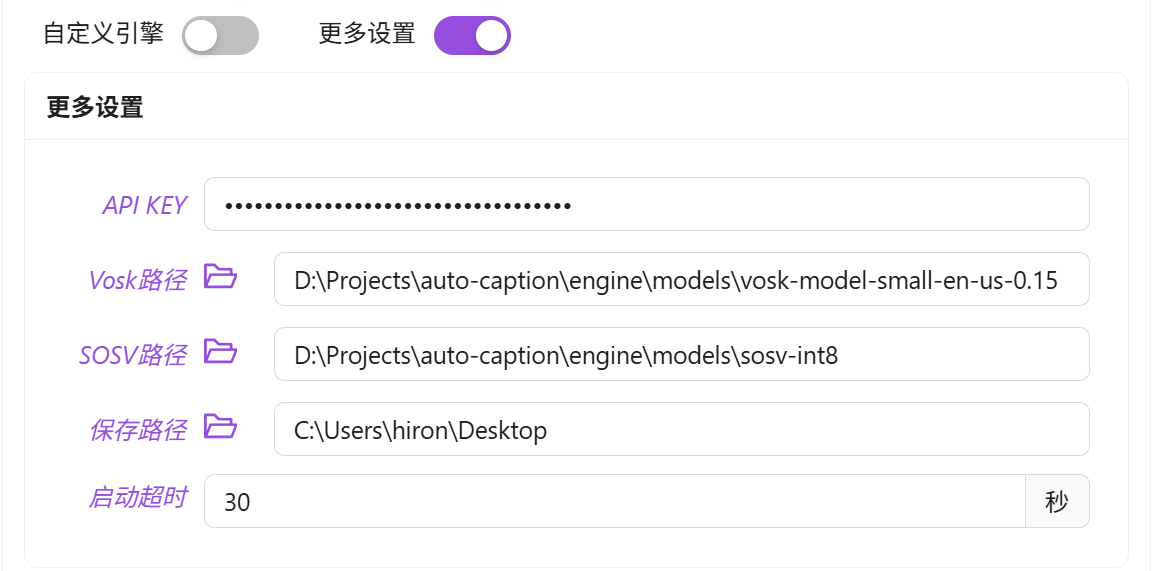
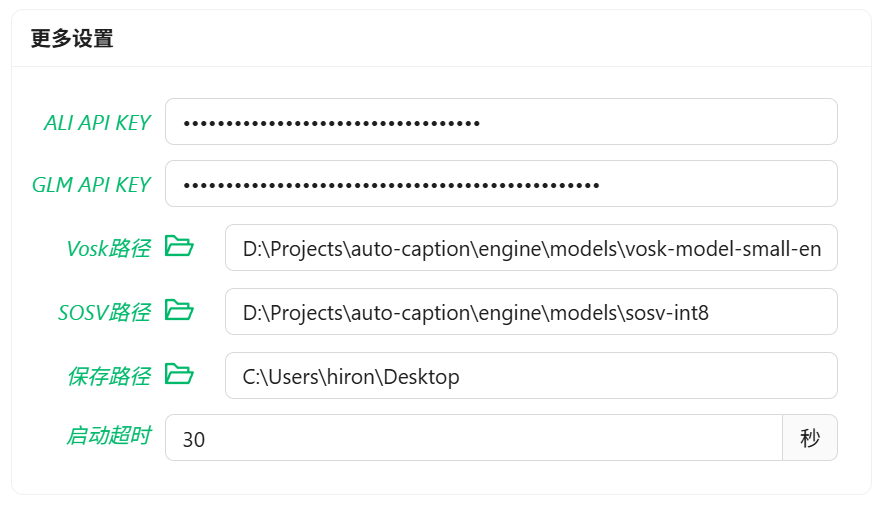
release v1.1.0

diff --git a/engine/main.py b/engine/main.py
@@ -185,7 +185,7 @@ def main_glm(a: int, c: int, url: str, model: str, key: str, s: str, t: str, tm:
 if __name__ == "__main__":
     parser = argparse.ArgumentParser(description='Convert system audio stream to text')
     # all
-    parser.add_argument('-e', '--caption_engine', default='gummy', help='Caption engine: gummy or vosk or sosv')
+    parser.add_argument('-e', '--caption_engine', default='gummy', help='Caption engine: gummy, glm, vosk or sosv')
     parser.add_argument('-a', '--audio_type', type=int, default=0, help='Audio stream source: 0 for output, 1 for input')
     parser.add_argument('-c', '--chunk_rate', type=int, default=10, help='Number of audio stream chunks collected per second')
     parser.add_argument('-p', '--port', type=int, default=0, help='The port to run the server on, 0 for no server')
@@ -193,7 +193,7 @@ if __name__ == "__main__":
     parser.add_argument('-t', '--target_language', default='none', help='Target language code, "none" for no translation')
     parser.add_argument('-r', '--record', type=int, default=0, help='Whether to record the audio, 0 for no recording, 1 for recording')
     parser.add_argument('-rp', '--record_path', default='', help='Path to save the recorded audio')
-    # gummy and sosv
+    # gummy and sosv and glm
     parser.add_argument('-s', '--source_language', default='auto', help='Source language code')
     # gummy only
     parser.add_argument('-k', '--api_key', default='', help='API KEY for Gummy model')

diff --git a/README_en.md b/README_en.md
@@ -3,7 +3,7 @@
     <h1 align="center">auto-caption</h1>
     <p>Auto Caption is a cross-platform real-time caption display software.</p>
     <p>
-      <a href="https://github.com/HiMeditator/auto-caption/releases"><img src="https://img.shields.io/badge/release-1.0.0-blue"></a>
+      <a href="https://github.com/HiMeditator/auto-caption/releases"><img src="https://img.shields.io/badge/release-1.1.0-blue"></a>
       <a href="https://github.com/HiMeditator/auto-caption/issues"><img src="https://img.shields.io/github/issues/HiMeditator/auto-caption?color=orange"></a>
       <img src="https://img.shields.io/github/languages/top/HiMeditator/auto-caption?color=royalblue">
       <img src="https://img.shields.io/github/repo-size/HiMeditator/auto-caption?color=green">
@@ -14,7 +14,7 @@
         | <b>English</b>
         | <a href="./README_ja.md">日本語</a> |
     </p>
-    <p><i>Version 1.0.0 has been released, with the addition of the SOSV local caption model. The current features are basically complete, and there are no further development plans...</i></p>
+    <p><i>v1.1.0 has been released, adding the GLM-ASR cloud caption model and OpenAI compatible model translation...</i></p>
 </div>
 
 ![](./assets/media/main_en.png)
@@ -38,14 +38,16 @@ SOSV Model Download: [Shepra-ONNX SenseVoice Model](https://github.com/HiMeditat
 ## ✨ Features
 
 - Generate captions from audio output or microphone input
-- Supports translation by calling local Ollama models or cloud-based Google Translate API
+- Supports calling local Ollama models, cloud-based OpenAI compatible models, or cloud-based Google Translate API for translation
 - Cross-platform (Windows, macOS, Linux) and multi-language interface (Chinese, English, Japanese) support
 - Rich caption style settings (font, font size, font weight, font color, background color, etc.)
-- Flexible caption engine selection (Alibaba Cloud Gummy cloud model, local Vosk model, local SOSV model, or you can develop your own model)
+- Flexible caption engine selection (Aliyun Gummy cloud model,GLM-ASR cloud model, local Vosk model, local SOSV model, or you can develop your own model)
 - Multi-language recognition and translation (see below "⚙ Built-in Subtitle Engines")
 - Subtitle record display and export (supports exporting `.srt` and `.json` formats)
 
 ## 📖 Basic Usage
+
+> ⚠ Note: Currently, only the latest version of the software on Windows platform is maintained, while the last versions for other platforms remain at v1.0.0.
 
 The software has been adapted for Windows, macOS, and Linux platforms. The tested platform information is as follows:
 
@@ -60,14 +62,15 @@ Additional configuration is required to capture system audio output on macOS and
 
 After downloading the software, you need to select the corresponding model according to your needs and then configure the model.
 
-|                                                              | Recognition Quality | Deployment Type    | Supported Languages | Translation   | Notes                                                      |
-| ------------------------------------------------------------ | ------------------- | ------------------ | ------------------- | ------------- | ---------------------------------------------------------- |
-| [Gummy](https://help.aliyun.com/zh/model-studio/gummy-speech-recognition-translation) | Excellent 😊         | Alibaba Cloud | 10 languages        | Built-in      | Paid, 0.54 CNY/hour                                        |
-| [Vosk](https://alphacephei.com/vosk)                         | Poor 😞             | Local / CPU        | Over 30 languages   | Requires setup | Supports many languages                                    |
-| [SOSV](https://k2-fsa.github.io/sherpa/onnx/sense-voice/index.html) | Fair 😐             | Local / CPU        | 5 languages         | Requires setup | Only one model available                                   |
-| DIY Development                                              | 🤔                  | Custom             | Custom              | Custom        | Develop your own using Python according to [documentation](./docs/engine-manual/zh.md) |
+|                                                              | Accuracy | Real-time | Deployment Type | Supported Languages | Translation | Notes |
+| ------------------------------------------------------------ | -------- | --------- | --------------- | ------------------- | ----------- | ----- |
+| [Gummy](https://help.aliyun.com/zh/model-studio/gummy-speech-recognition-translation) | Very good 😊 | Very good 😊 | Cloud / Alibaba Cloud | 10 languages | Built-in translation | Paid, 0.54 CNY/hour |
+| [glm-asr-2512](https://docs.bigmodel.cn/cn/guide/models/sound-and-video/glm-asr-2512) | Very good 😊 | Poor 😞 | Cloud / Zhipu AI | 4 languages | Requires additional configuration | Paid, approximately 0.72 CNY/hour |
+| [Vosk](https://alphacephei.com/vosk) | Poor 😞 | Very good 😊 | Local / CPU | Over 30 languages | Requires additional configuration | Supports many languages |
+| [SOSV](https://k2-fsa.github.io/sherpa/onnx/sense-voice/index.html) | Average 😐 | Average 😐 | Local / CPU | 5 languages | Requires additional configuration | Only one model |
+| Self-developed | 🤔 | 🤔 | Custom | Custom | Custom | Develop your own using Python according to the [documentation](./docs/engine-manual/en.md) |
 
-If you choose to use the Vosk or SOSV model, you also need to configure your own translation model.
+If you choose a model other than Gummy, you also need to configure your own translation model.
 
 ### Configuring Translation Models
 
@@ -79,7 +82,18 @@ If you choose to use the Vosk or SOSV model, you also need to configure your own
 
 > Note: Using models with too many parameters will lead to high resource consumption and translation delays. It is recommended to use models with less than 1B parameters, such as: `qwen2.5:0.5b`, `qwen3:0.6b`.
 
-Before using this model, you need to ensure that [Ollama](https://ollama.com/) software is installed on your machine and the required large language model has been downloaded. Simply add the name of the large model you want to call to the `Ollama` field in the settings.
+Before using this model, you need to confirm that the [Ollama](https://ollama.com/) software is installed on your local machine and that you have downloaded the required large language model. Simply add the name of the large model you want to call to the `Model Name` field in the settings, and ensure that the `Base URL` field is empty.
+
+#### OpenAI Compatible Model
+
+If you feel the translation effect of the local Ollama model is not good enough, or don't want to install the Ollama model locally, then you can use cloud-based OpenAI compatible models.
+
+Here are some model provider `Base URL`s:
+- OpenAI: https://api.openai.com/v1
+- DeepSeek: https://api.deepseek.com
+- Alibaba Cloud: https://dashscope.aliyuncs.com/compatible-mode/v1
+
+The API Key needs to be obtained from the corresponding model provider.
 
 #### Google Translate API
 
@@ -95,6 +109,12 @@ To use the default Gummy caption engine (using cloud models for speech recogniti
 
 - [Get API KEY](https://help.aliyun.com/zh/model-studio/get-api-key)
 - [Configure API Key through Environment Variables](https://help.aliyun.com/zh/model-studio/configure-api-key-through-environment-variables)
+
+### Using the GLM-ASR Model
+
+Before using it, you need to obtain an API KEY from the Zhipu AI platform and add it to the software settings.
+
+For API KEY acquisition, see: [Quick Start](https://docs.bigmodel.cn/en/guide/start/quick-start).
 
 ### Using Vosk Model
 
@@ -133,7 +153,7 @@ python main.py \
 
 ## ⚙ Built-in Subtitle Engines
 
-Currently, the software comes with 3 caption engines, with new engines under development. Their detailed information is as follows.
+Currently, the software comes with 4 caption engines, with new engines under development. Their detailed information is as follows.
 
 ### Gummy Subtitle Engine (Cloud)
 
@@ -160,6 +180,10 @@ $$
 
 The engine only uploads data when receiving audio streams, so the actual upload rate may be lower. The return traffic consumption of model results is small and not considered here.
 
+### GLM-ASR Caption Engine (Cloud)
+
+https://docs.bigmodel.cn/en/guide/models/sound-and-video/glm-asr-2512
+
 ### Vosk Subtitle Engine (Local)
 
 Developed based on [vosk-api](https://github.com/alphacep/vosk-api). The advantage of this caption engine is that there are many optional language models (over 30 languages), but the disadvantage is that the recognition effect is relatively poor, and the generated content has no punctuation.
@@ -167,16 +191,6 @@ Developed based on [vosk-api](https://github.com/alphacep/vosk-api). The advanta
 ### SOSV Subtitle Engine (Local)
 
 [SOSV](https://github.com/HiMeditator/auto-caption/releases/tag/sosv-model) is an integrated package, mainly based on [Shepra-ONNX SenseVoice](https://k2-fsa.github.io/sherpa/onnx/sense-voice/index.html), with added endpoint detection model and punctuation restoration model. The languages supported by this model for recognition are: English, Chinese, Japanese, Korean, and Cantonese.
-
-### Planned New Subtitle Engines
-
-The following are candidate models that will be selected based on model performance and ease of integration.
-
-- [faster-whisper](https://github.com/SYSTRAN/faster-whisper)
-- [sherpa-onnx](https://github.com/k2-fsa/sherpa-onnx)
-- [SenseVoice](https://github.com/FunAudioLLM/SenseVoice)
-- [FunASR](https://github.com/modelscope/FunASR)
-- [WhisperLiveKit](https://github.com/QuentinFuxa/WhisperLiveKit)
 
 ## 🚀 Project Setup
 

diff --git a/docs/user-manual/en.md b/docs/user-manual/en.md
@@ -1,6 +1,6 @@
 # Auto Caption User Manual
 
-Corresponding Version: v1.0.0
+Corresponding Version: v1.1.0
 
 **Note: Due to limited personal resources, the English and Japanese documentation files for this project (except for the README document) will no longer be maintained. The content of this document may not be consistent with the latest version of the project. If you are willing to help with translation, please submit relevant Pull Requests.**
 
@@ -40,6 +40,11 @@ Alibaba Cloud provides detailed tutorials for this part, which can be referenced
 
 - [Obtaining API KEY (Chinese)](https://help.aliyun.com/zh/model-studio/get-api-key)
 - [Configuring API Key through Environment Variables (Chinese)](https://help.aliyun.com/zh/model-studio/configure-api-key-through-environment-variables)
+
+
+## Preparation for GLM Engine
+
+You need to obtain an API KEY first, refer to: [Quick Start](https://docs.bigmodel.cn/en/guide/start/quick-start).
 
 ## Preparation for Using Vosk Engine
 
@@ -147,7 +152,7 @@ The following parameter descriptions only include necessary parameters.
 
 #### `-e , --caption_engine`
 
-The caption engine model to select, currently three options are available: `gummy, vosk, sosv`.
+The caption engine model to select, currently three options are available: `gummy, glm, vosk, sosv`.
 
 The default value is `gummy`.
 
@@ -199,9 +204,11 @@ Source language for recognition. Default value is `auto`, meaning no specific so
 
 Specifying the source language can improve recognition accuracy to some extent. You can specify the source language using the language codes above.
 
-This only applies to Gummy and SOSV models.
+This applies to Gummy, GLM and SOSV models.
 
 The Gummy model can use all the languages mentioned above, plus Cantonese (`yue`).
+
+The GLM model supports specifying the following languages: English, Chinese, Japanese, Korean.
 
 The SOSV model supports specifying the following languages: English, Chinese, Japanese, Korean, and Cantonese.
 
@@ -212,6 +219,18 @@ Specify the Alibaba Cloud API KEY required for the `Gummy` model.
 Default value is empty.
 
 This only applies to the Gummy model.
+
+#### `-gkey, --glm_api_key`  
+
+Specifies the API KEY required for the `glm` model. The default value is empty.  
+
+#### `-gmodel, --glm_model`  
+
+Specifies the model name to be used for the `glm` model. The default value is `glm-asr-2512`.  
+
+#### `-gurl, --glm_url`  
+
+Specifies the API URL required for the `glm` model. The default value is: `https://open.bigmodel.cn/api/paas/v4/audio/transcriptions`.  
 
 #### `-tm, --translation_model`
 
@@ -226,13 +245,23 @@ This only applies to Vosk and SOSV models.
 
 #### `-omn, --ollama_name`
 
-Specify the Ollama model to call for translation. Default value is empty.
+Specifies the name of the translation model to be used, which can be either a local Ollama model or a cloud model compatible with the OpenAI API. If the Base URL field is not filled in, the local Ollama service will be called by default; otherwise, the API service at the specified address will be invoked via the Python OpenAI library.  
 
-It's recommended to use models with less than 1B parameters, such as: `qwen2.5:0.5b`, `qwen3:0.6b`.
+If using an Ollama model, it is recommended to use a model with fewer than 1B parameters, such as `qwen2.5:0.5b` or `qwen3:0.6b`. The corresponding model must be downloaded in Ollama for normal use.  
 
-Users need to download the corresponding model in Ollama to use it properly.
+The default value is empty and applies to models other than Gummy.  
 
-This only applies to Vosk and SOSV models.
+#### `-ourl, --ollama_url`
+
+The base request URL for calling the OpenAI API. If left blank, the local Ollama model on the default port will be called.  
+
+The default value is empty and applies to models other than Gummy.  
+
+#### `-okey, --ollama_api_key`
+
+Specifies the API KEY for calling OpenAI-compatible models.  
+
+The default value is empty and applies to models other than Gummy.  
 
 #### `-vosk, --vosk_model`
 

diff --git a/docs/TODO.md b/docs/TODO.md
@@ -23,17 +23,8 @@
 - [x] 前端页面添加日志内容展示 *2025/08/19*
 - [x] 添加 Ollama 模型用于本地字幕引擎的翻译 *2025/09/04*
 - [x] 验证 / 添加基于 sherpa-onnx 的字幕引擎 *2025/09/06*
+- [x] 添加 GLM-ASR 模型 *2026/01/10*
 
-## 待完成
+## TODO
 
-- [ ] 调研更多的云端模型（火山、OpenAI、Google等）
-- [ ] 验证 / 添加基于 sherpa-onnx 的字幕引擎
-
-## 后续计划
-
-- [ ] 验证 / 添加基于 FunASR 的字幕引擎
-- [ ] 减小软件不必要的体积
-
-## 遥远的未来
-
-- [ ] 使用 Tauri 框架重新开发
+暂无

diff --git a/docs/CHANGELOG.md b/docs/CHANGELOG.md
@@ -173,3 +173,10 @@
 - 优化部分提示信息显示位置
 - 替换重采样模型，提高音频重采样质量
 - 带有额外信息的标签颜色改为与主题色一致
+
+## v1.1.0
+
+### 新增功能
+
+- 添加基于 GLM-ASR 的字幕引擎
+- 添加 OpenAI API 兼容模型作为新的翻译模型
